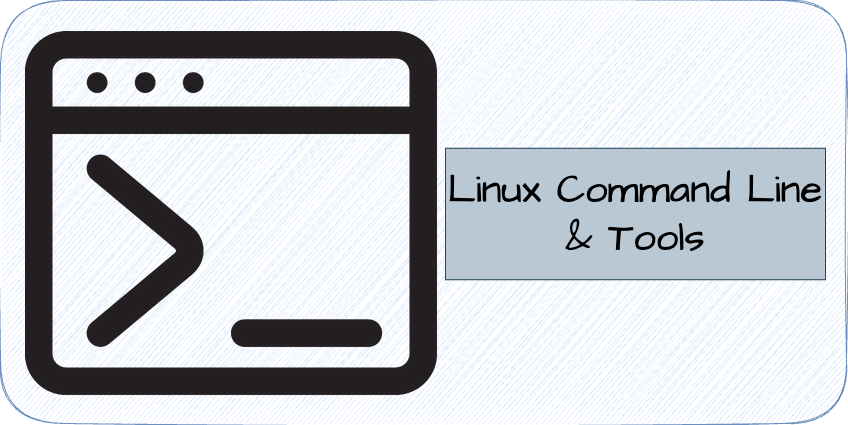
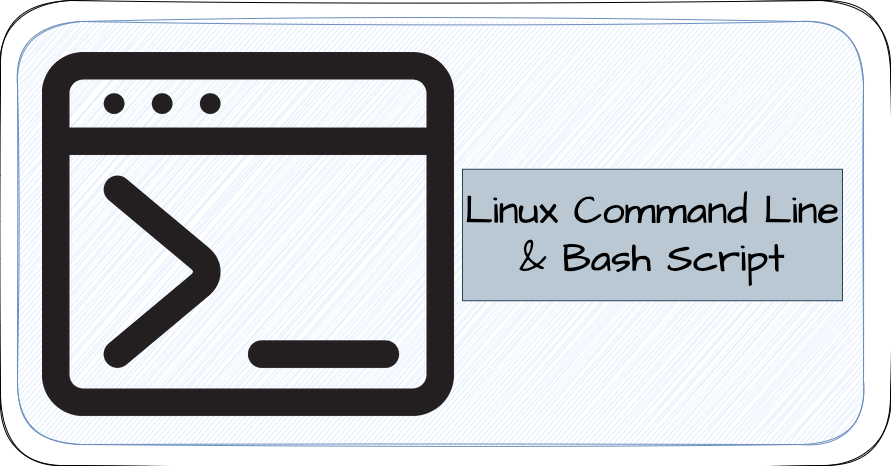
Modify post

diff --git a/src/content/post/lo-trinh-hoc-data-engineering-2024/index.md b/src/content/post/lo-trinh-hoc-data-engineering-2024/index.md
@@ -2,7 +2,7 @@
 title: Lộ trình học Data Engineering 2024
 author: Tuan Data
 publishDate: 28 Jun 2024
-updatedDate: 29 Jun 2024
+updatedDate: 1 Jul 2024
 description: Chào mọi người, trong bài viết này Tuân sẽ chia sẻ đến mọi người về "Lộ trình học Data Engineering 2024", Tuân hi vọng bài viết này sẽ hữu ích với mọi người.
 tags: [data engineering]
 # draft: true
@@ -12,6 +12,7 @@ tags: [data engineering]
 #     alt: "Config SSH file"
 #! TODO
 ---
+
 ## Giới thiệu
 Chào mọi người, trong những buổi livestream [trên kênh Tiktok của Tuân](https://www.tiktok.com/@tuan.data), Tuân thấy các bạn hay hỏi về `Cách học Data Engineering?` hoặc `Muốn làm Data Engineer thì cần học những gì?`.
 
@@ -24,36 +25,107 @@ Tuân hi vọng bài viết này sẽ hữu ích đến các bạn. Nếu các b
 Và bây giờ mình cùng nhau bắt đầu nào.
 
 ## 1. What is Data Engineering?
-Đầu tiên và cũng là quan trọng nhất khi các bạn tìm hiểu về Data Engineering hay nghề Data Engineer chính là hiểu về nghề, tìm hiểu về công việc của vị trí này là làm gì? Sự quan trọng của một Data Engineer trong một tổ chức? cũng như giá trị cốt lõi mà Data Engineer mang đến cho tổ chức.
+![This is image about Data Engineering topic](dataengineering.png)
+Đầu tiên và cũng là kiến thức quan trọng nhất khi các bạn tìm hiểu về Data Engineering hay nghề Data Engineer chính là hiểu về nghề, tìm hiểu về công việc của vị trí này là làm gì? Sự quan trọng của một Data Engineer trong một tổ chức? cũng như giá trị cốt lõi mà Data Engineer mang đến cho tổ chức.
 
+Để từ đó các bạn mới biết được rằng liệu mình có thích nó như mình nghĩ không? Liệu rằng mình có phù hợp với nó không? Tránh bị mất thời gian, công sức cũng như tiền bạc quá nhiều vào nó, rồi một ngày lại nhận ra là mình không phù hợp với nó, không thích công việc này. Vậy nên, tuy đây là những kiến thức đơn giản nhất nhưng cũng thật sự quan trọng nhất đối với bạn.
+
+### Nguồn tài liệu
+Trong phần này bạn có thể tham khảo 2 nguồn tài liệu sau nhé:
+- Sách `Fundamentals of Data Engineering`: Đây là quyển sách giới thiệu về nghề `Data Engineer` mà Tuân thấy tương đối đầy đủ cũng như thực tế nhất. Các bạn có thể đọc sách tại đây nhé [Oreilly](https://learning.oreilly.com/library/view/fundamentals-of-data/9781098108298/preface01.html#what_this_book_isn_t).
+
+- `Module 1: Giới thiệu về Data Engineering` trong khoá học `Mastering Data Engineering 2024` do Tuân trực tiếp giảng dạy: Trong khoá học `Mastering Data Engineering 2024`, các bạn đăng ký tham gia sẽ được học miễn phí `Module 1: Giới thiệu về Data Engineering` để tìm hiểu về ngành cũng như tìm hiểu về khoá học trước khi đăng ký tham gia học sâu các kiến thức trong các Module sau. Để đăng ký các bạn liên hệ [Facebook của Tuân](https://www.facebook.com/edgarle611/) nhé.
+
+Nếu như bạn đã tìm hiểu đủ các thông tin, và thật sự cảm thấy thích thú với nghề `Data Engineer` thì chúc mừng bạn đã tìm được công việc yêu thích của mình và cùng Tuân bước vào các chặng đường phía trước nhé!
 
 
 ## 2. SQL
 ![This is image about sql in data engineering](sql.gif)
-First of all, it is SQL.
+Kiến thức về technical đầu tiên chúng ta sẽ tìm hiểu là SQL nhé.
 
-SQL is a crucial skill for Data Engineers because the first task of every Data Engineer is to adhoc report.
-To retrieve requested adhoc reports effectively, Data Engineers need to have a solid understanding of both basic and advanced SQL concepts.
+SQL là một kỹ năng quang trọng cho một Data Engineer, bởi vì công việc đầu tiên của Data Engineer là lấy report(công việc này hay được nói vui là **lấy số**). Mà hầu hết dữ liệu sẽ được lưu trữ ở **Data Warehouse**, vậy nên bạn muốn lấy dữ liệu ra thì bạn phải có kỹ năng SQL.
 
-Understanding basic SQL help Data Engineers can adhoc reports as required. However, to save costs and efficiently adhoc report, Data Engineers need to have a deep understanding of advanced SQL techniques then optimize their query adhoc.
+Biết được các kiến thức cơ bản SQL sẽ giúp bạn lấy được các report đơn giản, nhưng đối với các report phức tạp, yêu cầu tính toán nhiều cũng như phối hợp xử lý nhiều công đoạn thì bạn phải hiểu sâu về SQL biết các kiến thức nâng cao SQL.
+
+Khi đã nắm rõ các kiến thức nâng cao này, cũng sẽ đồng thời giúp bạn tối ưu hoá các câu truy vấn, giúp cải thiện thời gian truy vấn cũng như resource khi thực thi câu truy vấn.
+
+### Nguồn tài liệu
+Trong phần này bạn có thể tham khảo 2 nguồn tài liệu sau nhé:
+- Cú pháp SQL trong [Google BigQuery](https://cloud.google.com/bigquery/docs/reference/standard-sql/query-syntax?authuser=1): Đây là trang web giới thiệu cũng như hướng dẫn các cú pháp SQL trong Google BigQuery. 
+
+- `Module 2: Sử dụng SQL để truy vấn dữ liệu` trong khoá học `Mastering Data Engineering 2024` do Tuân trực tiếp giảng dạy: Trong module này các bạn học viên sẽ được học midset về truy vấn dữ liệu, các câu lệnh SQL từ cơ bản đến nâng cao, cũng như những kỹ thuật tối ưu hoá câu truy vấn. Để đăng ký các bạn liên hệ [Facebook của Tuân](https://www.facebook.com/edgarle611/) nhé.
+
+> Trong phần này, các học viên của Tuân cũng thường có câu hỏi rằng những câu truy vấn SQL trên Google BigQuery có khác gì với những nền tảng Data Warehouse khác như Snowflake hoặc những database khác như PostgreSQL, MySQL không? Thì Tuân xin trả lời với các bạn rằng có nhé, nhưng rất ít, và hầu như đều giống nhau cả. Chỉ khác ở những hàm xử lý phức tạp, vì mỗi database sẽ hỗ trợ những hàm xử lý khác nhau thôi. Vậy nên chỉ cần bạn nắm chắc được một nền tảng thì rất dễ để sử dụng trên các nền tảng khác.
+
 
 ## 3. Python
 ![This is image about python in data engineering](python.gif)
-The second is Python.
+Kiến thức về technical thứ hai chúng ta sẽ tìm hiểu là Python nhé.
 
-Python is the primary language for Data Engineers, so it is essential to master and understand it throughly.
+Python là ngôn ngữ lập trình chính cho các Data Engineer. Data Engineer sử dụng Python kết hợp với các thư viện của Python để xây dựng các pipeline xử lý dữ liệu hay các luồng ETL, ELT data. Nhằm mục tiêu xây dựng một Data Platform hoàn thiện.
 
-Data Engineers use Python to write data processing pipelines to integrate data from various sources into Data Warehouse or Data Lake, in addition to transform data in ETL processes.
+### Nguồn tài liệu
+Trong phần này bạn có thể tham khảo các nguồn tài liệu sau nhé:
+- [Tutorial Python tại Programiz](https://www.programiz.com/python-programming): Bạn có thể dựa bám sát tutorial này để học lập trình Python cơ bản nhé.
+- Sách [Python Crash Course](https://www.amazon.com/Python-Crash-Course-Eric-Matthes/dp/1718502702): Đây là một quyển sách học Python tương đối đầy đủ cho các bạn mới tập làm quen với lập trình Python.
+- [Tài liệu Pandas](https://pandas.pydata.org/docs/reference/io.html): Sau khi đã nắm được các kiến thức cơ bản Python bạn học tiếp kiến thức về sử dụng Pandas để sử lý dữ liệu nhé.
+- [Tài liệu Numpy](https://numpy.org/doc/stable/reference/module_structure.html): Còn đây là tài liệu về thư viện Numpy nhé.
+- Ngoài ra còn có các thư viện khác phục vụ cho extract cũng như load dữ liệu như: ftplib, psycopg2, ...
+- `Module 3: Lập trình Python cho Data Engineer` trong khoá học `Mastering Data Engineering 2024` do Tuân trực tiếp giảng dạy: Trong module này học viên sẽ học midset về lập trình cũng như lập trình Python, sử dụng ngôn ngữ lập trình Python để giải quyết các bài toán thực tế Data Engineering. Để đăng ký các bạn liên hệ [Facebook của Tuân](https://www.facebook.com/edgarle611/) nhé.
+
 
 ## 4. Git
 ![This is the image about Git in Data Engineering](git.png)
-The third is git.
+Kiến thức về technical thứ ba chúng ta sẽ tìm hiểu là Git nhé.
 
-## 5. Linux Command Line
-![This is the image about Linux Command Line in Data Engineering](linux.png)
+Git là một công cụ thường được sử dụng để quản lý source code trong các doanh nghiệp, giúp các member trong team có thể làm việc chung với nhau trong cùng một source code, tránh phải giẫm chân nhau.
+
+Vậy nên khi tham gia vào một team, bạn cũng đồng thời join vào những project của team. Nên kiến thức về Git thật sự rất cần thiết với các bạn, giúp các bạn có thể tự tin làm việc cùng các member trong team cũng như cùng chung tay xây dựng projects của team.
+
+### Nguồn tài liệu
+Trong phần này bạn có thể tham khảo 2 nguồn tài liệu sau nhé:
+- [Tutorial Git tại W3School](https://www.w3schools.com/git/): Bạn có thể bám sát tutorial này để thực hành với Git nhé.
+- `Module 4: Data Engineer sử dụng Git để quản lý source code` trong khoá học `Mastering Data Engineering 2024` do Tuân trực tiếp giảng dạy: Trong module này học viên sẽ được học cách làm việc với Git và sử dụng Git để giải quyết các vấn đề thường gặp trong thực tế cũng như các bug thường mắc phải khi sử dụng Git. Để đăng ký các bạn liên hệ [Facebook của Tuân](https://www.facebook.com/edgarle611/) nhé.
+
+
+## 5. Linux Command Line & Bash Script
+![This is the image about Linux Command Line & Bash Script in Data Engineering](linux.png)
+Kiến thức về technical thứ tư chúng ta sẽ tìm hiểu là Linux Command Line và Bash Script nhé.
+
+Nghe hơi lạ đúng không các bạn? Data Engineer thì cần gì biết đến Linux Command Line hay Bash Script, chỉ cần biết những kiến thức liên quan đến Data là được rồi mà. Nhưng thật sự như vậy, Linux Command Line cũng như Bash Script có liên quan rất mật thiết đến Data Engineer.
+
+Ví dụ đơn giản như thế này, những service mà Data Engineer dùng hầu hết sẽ được deploy trên nền tảng Linux OS. Vì vậy khi biết những cây lệnh Linux sẽ giúp ích cho các bạn rất nhiều trong việc tương tác hay làm việc trên các Linux Server. Nhất là trong môi trường On-Premise.
+
+### Nguồn tài liệu
+Trong phần này bạn có thể tham khảo các nguồn tài liệu sau nhé:
+- [Tutorial Linux Command Line](https://www.freecodecamp.org/news/linux-command-line-tutorial/): Bạn có thể tham khảo các hướng dẫn cơ bản cũng như làm quen với các lệnh Linux thường sử dụng tại Tutorial này.
+- [Tutorial Bash Script](https://www.freecodecamp.org/news/bash-scripting-tutorial-linux-shell-script-and-command-line-for-beginners/#:~:text=A%20bash%20script%20is%20a,process%20using%20the%20command%20line.): Bạn có thể tham khảo các hướng dẫn cơ bản về Bash Script tại Tutorial này nhé.
+- `Module 5: Kiến thức Linux cho Data Engineer` trong khoá học `Mastering Data Engineering 2024` do Tuân trực tiếp giảng dạy: Trong module này học viên sẽ được học về 2 hệ điều hành Linux thường được sử dụng chính trong có dự án Data của doanh nghiệp là Ubuntu và CentOS, các câu lệnh thường được sử dụng cho công việc Data Engineering và các công cụ giúp tăng hiệu suất khi làm việc trên Linux. Và cuối cùng học viên sẽ được học về Bash Script, sử dụng Bash Script để giải quyết các vấn đề thực tế cho công việc Data Engineering. Để đăng ký các bạn liên hệ [Facebook của Tuân](https://www.facebook.com/edgarle611/) nhé.
+
 
 ## 6. Database Management System
 ![This is image about database management system in data engineering](database.png)
+Kiến thức về technical thứ năm chúng ta sẽ cần tìm hiểu là Database Management System(DBMS).
+
+Trong phần 2, chúng ta đã tìm hiểu về SQL, nhưng đó chỉ tập trung đào sâu vào phần truy vấn dữ liệu, phục vụ cho việc xử lý dữ liệu bằng SQL hoặc lấy các adhoc report.
+
+Trong phần này chúng ta sẽ chia ra làm 2 phần nhỏ nhé, đó là: `Phần 1: Kiến thức Database Management System cho người chỉ sử dụng` và `Phần 2: Kiến thức Database Management cho người setup (DataOps)`.
+
+Với phần 1, các bạn sẽ học các kiến thức về DBMS để giải quyết các câu hỏi như: `Thiết kế một DBMS như thế nào?`, `Quy trình thiết kế DBMS như thế nào?`, `Hoạt động của một DBMS như thế nào?`, `Lưu trữ Data trong một DB như thế nào cho hiệu quả?`, ... những câu hỏi này chỉ mục đích sử dụng một DBMS được build sẵn lên một cách tốt nhất, ngoài ra không động chạm gì phần dưới setup hệ thống DBMS cả.
+
+Với phần 2, các bạn sẽ học các kiến thức về việc setup các DBMS một cách hiệu quả cũng như các kiến thức về System Design. Phần này phù hợp cho các bạn đã nắm kỹ phần 1 và muốn đào sâu vào bên dưới hệ thống của DBMS. Cũng như làm sao xây dựng một Data Warehouse On-Premise.
+
+Trong phần này, Tuân recommend các bạn nên tập trung vào 2 Database hiện tại rất phổ biến với dân Data Engineer, đó là `PostgreSQL` và `Clickhouse`, 1 con là Database lưu trữ data theo dạng row, 1 con lưu trữ data theo dạng column.
+
+### Nguồn tài liệu
+Trong phần này bạn có thể tham khảo các nguồn tài liệu sau nhé:
+- Sách [Fundamentals of Database Systems](https://www.amazon.com/Fundamentals-Database-Systems-Ramez-Elmasri/dp/0133970779): Đây là một quyển sách nói rõ các vấn đề liên quan đến Database cũng như DBMS.
+- Sách [Database Systems: The Complete Book](https://www.amazon.com/Database-Systems-Complete-Book-2nd/dp/0131873253): Đây cũng là một quyển sách hay nói về DBMS.
+- Sách [Designing Data-Intensive Applications](https://www.amazon.com/Designing-Data-Intensive-Applications-Reliable-Maintainable/dp/1449373321/ref=ci_mcx_mr_mp_m_d_sccl_2_2/144-2643349-2668312?pd_rd_w=jl7pT&content-id=amzn1.sym.904f4c18-630f-4c52-8bdf-78921242d9bd:amzn1.symc.27c848cf-47ab-487b-bd07-91bc659e0119&pf_rd_p=904f4c18-630f-4c52-8bdf-78921242d9bd&pf_rd_r=T5NM3R82XDZC06189DFD&pd_rd_wg=LVhXF&pd_rd_r=8959001b-311f-474a-883d-e664a4652f9a&pd_rd_i=1449373321&psc=1): Đây là một quyển sách hay nói về các khía cạnh trong System Design.
+- [Tài liệu PostgreSQL Database](https://www.postgresql.org/docs/16/index.html): Đây là nguồn tài liệu chính thống từ PostgreSQL Database.
+- [Tài liệu Clickhouse Database](https://clickhouse.com/docs/en/intro): Đây là nguồn tài liệu chính thống từ Clickhouse Database.
+- `Module 6.1 Database Management System cơ bản` trong khoá học `Mastering Data Engineering 2024` do Tuân trực tiếp giảng dạy: Trong module này học viên sẽ được học về 
+
 
 ## 7. Data Warehouse Concept
 
